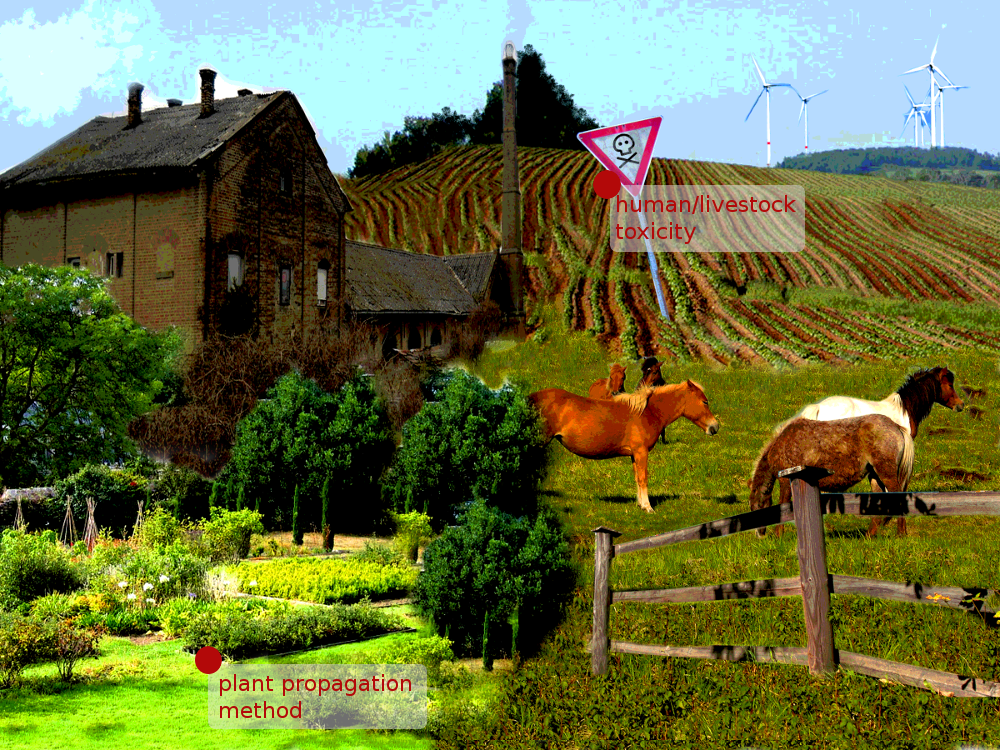
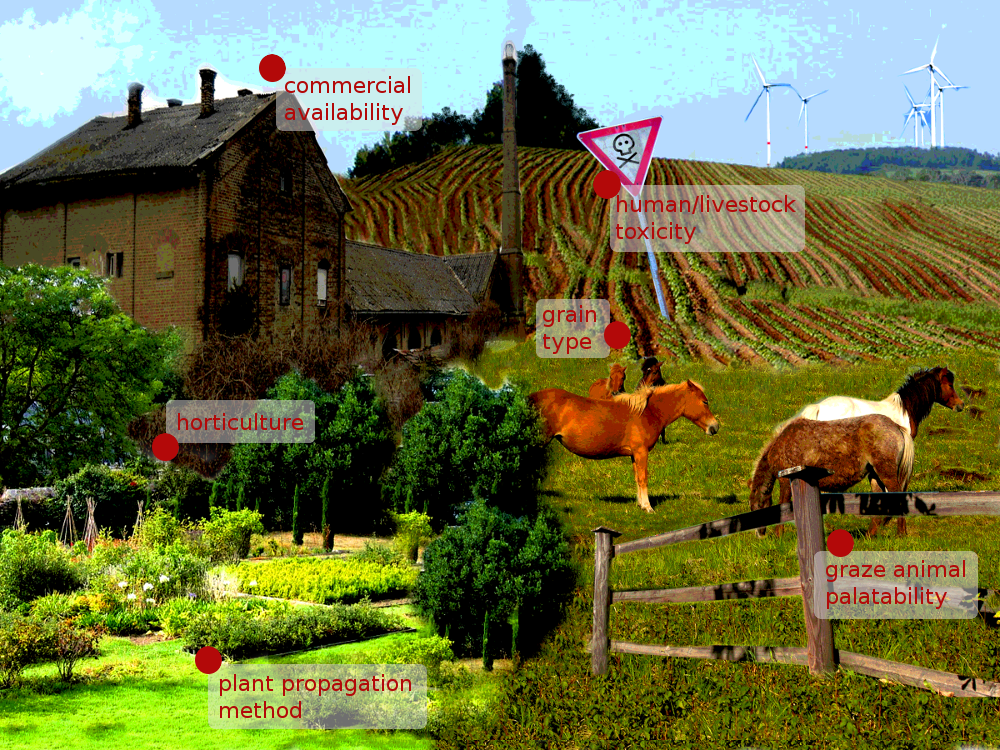
Add more events to the image

diff --git a/src/webroot/js/interactiveTraitBrowse_humanAndEcosystems.js b/src/webroot/js/interactiveTraitBrowse_humanAndEcosystems.js
@@ -32,6 +32,62 @@ $(document).ready(function(){
             .on("click", function(){
                 displayPage(d3.select(this).attr("type_cvterm_id"));
             });
+            
+    var horticulture = interactiveBrowse_humanAndEcosystems.append("rect")
+            .attr("x", 150)
+            .attr("y", 400)
+            .attr("width", 180)
+            .attr("height", 50)
+            .attr("id", "horticulture")
+            .attr("type_cvterm_id", "458")
+            .style("opacity", 0.01)
+            .style("fill", "#fff")
+            .style("cursor", "pointer")
+            .on("click", function(){
+                displayPage(d3.select(this).attr("type_cvterm_id"));
+            });
+            
+    var commercialAvailability = interactiveBrowse_humanAndEcosystems.append("rect")
+            .attr("x", 250)
+            .attr("y", 60)
+            .attr("width", 180)
+            .attr("height", 70)
+            .attr("id", "commercial availability")
+            .attr("type_cvterm_id", "505")
+            .style("opacity", 0.01)
+            .style("fill", "#fff")
+            .style("cursor", "pointer")
+            .on("click", function(){
+                displayPage(d3.select(this).attr("type_cvterm_id"));
+            });
+            
+    var grazeAnimal = interactiveBrowse_humanAndEcosystems.append("rect")
+            .attr("x", 820)
+            .attr("y", 540)
+            .attr("width", 160)
+            .attr("height", 80)
+            .attr("id", "graze animal palatability")
+            .attr("type_cvterm_id", "1263")
+            .style("opacity", 0.01)
+            .style("fill", "#fff")
+            .style("cursor", "pointer")
+            .on("click", function(){
+                displayPage(d3.select(this).attr("type_cvterm_id"));
+            });
+            
+    var grainType = interactiveBrowse_humanAndEcosystems.append("rect")
+            .attr("x", 540)
+            .attr("y", 300)
+            .attr("width", 80)
+            .attr("height", 60)
+            .attr("id", "graze animal palatability")
+            .attr("type_cvterm_id", "528")
+            .style("opacity", 0.01)
+            .style("fill", "#fff")
+            .style("cursor", "pointer")
+            .on("click", function(){
+                displayPage(d3.select(this).attr("type_cvterm_id"));
+            });
 
     function displayPage(traitId){
         var resultPage =  WebRoot+"/trait/details/byId/"+traitId;
